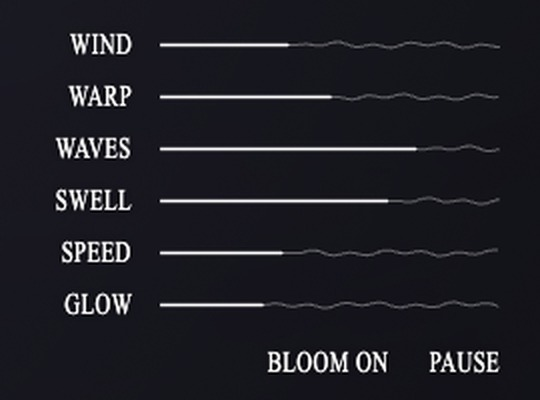
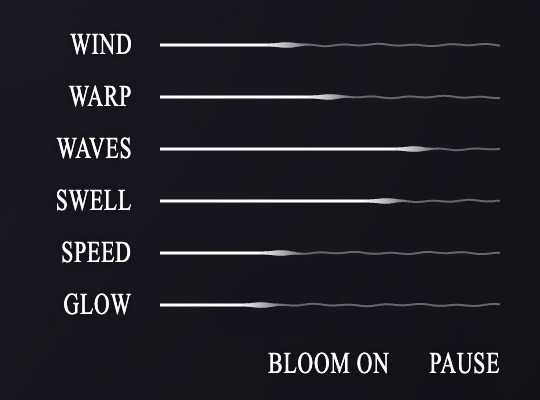
Softer line controls: gradient blend, slight bulge, gentler wobble
Each control line is now one filled ribbon: solid white up to the value, a short
smooth gradient into faint grey, a slight swelling at the value, and a much
smaller wobble past it.

diff --git a/public/games/flymetothemoon/index.html b/public/games/flymetothemoon/index.html
@@ -699,7 +699,8 @@
     requestAnimationFrame(frame);
   }
   // ---------------------------------------------------------------------------------------
-  // Line controls: a solid white line up to the value; past it the line is faint and jiggles.
+  // Line controls: a solid white line up to the value, swelling slightly there and blending
+  // into a faint line that barely wobbles.
   // The real range inputs sit invisibly on top, so dragging, keyboard and screen readers all work.
   // ---------------------------------------------------------------------------------------
   const lineSliders = [...document.querySelectorAll('.line')].map((el, i) => ({
@@ -714,17 +715,27 @@
       g.setTransform(dpr, 0, 0, dpr, 0, 0); g.clearRect(0, 0, w, h);
       const inp = sl.input, min = +inp.min, max = +inp.max;
       const x = (inp.value - min) / (max - min) * w, y = Math.round(h/2) + 0.5;
-      g.lineCap = 'round';
-      g.strokeStyle = 'rgba(255,255,255,0.35)'; g.lineWidth = 1;
-      g.beginPath(); g.moveTo(x, y);
-      for (let px = x + 2; px <= w; px += 2) {
-        const ease = Math.min(1, (px - x)/14);
-        const j = Math.sin(px*0.35 + time*7 + sl.seed)*0.9 + Math.sin(px*0.13 - time*4.3 + sl.seed*2.0)*0.7;
-        g.lineTo(px, y + j*ease);
+      // One filled ribbon per line, so nothing overlaps: its width swells slightly at the value,
+      // its centre wobbles very gently past it, and a single gradient takes it from solid white
+      // into faint grey over a short stretch around the value.
+      const top = [], bot = [];
+      for (let px = 0; px <= w + 0.01; px += 1) {
+        const d = px - x;
+        const t = Math.min(1, Math.max(0, (d + 12) / 24)), s = t*t*(3 - 2*t);
+        const half = (1.5 - 0.5*s + 1.6*Math.exp(-(d*d)/30)) / 2;      // swelling at the value
+        const ease = Math.min(1, Math.max(0, d)/16);
+        const cy = y + (Math.sin(px*0.35 + time*7 + sl.seed)*0.35 + Math.sin(px*0.13 - time*4.3 + sl.seed*2.0)*0.25) * ease;
+        top.push(px, cy - half); bot.push(px, cy + half);
       }
-      g.stroke();
-      g.strokeStyle = '#ffffff'; g.lineWidth = 1.5;
-      g.beginPath(); g.moveTo(0.75, y); g.lineTo(Math.max(x, 0.75), y); g.stroke();
+      const gr = g.createLinearGradient(0, 0, w, 0);
+      const a = Math.min(1, Math.max(0, (x - 12)/w)), b = Math.min(1, Math.max(a, (x + 12)/w));
+      gr.addColorStop(0, '#ffffff'); gr.addColorStop(a, '#ffffff');
+      gr.addColorStop(b, 'rgba(255,255,255,0.35)'); gr.addColorStop(1, 'rgba(255,255,255,0.35)');
+      g.fillStyle = gr;
+      g.beginPath(); g.moveTo(top[0], top[1]);
+      for (let i = 2; i < top.length; i += 2) g.lineTo(top[i], top[i+1]);
+      for (let i = bot.length - 2; i >= 0; i -= 2) g.lineTo(bot[i], bot[i+1]);
+      g.closePath(); g.fill();
     }
   }
 

diff --git a/README.md b/README.md
@@ -56,7 +56,7 @@ Drag the moon to spin it. Let go mid-drag to throw it; press on it while it's tu
 
 ## Controls
 
-The controls sit in the lower right as plain white lines: solid up to the current value, faint and jiggling past it. Drag along a line, or focus it and use the arrow keys.
+The controls sit in the lower right as plain white lines: solid up to the current value, swelling slightly there and blending into a faint line that barely wobbles. Drag along a line, or focus it and use the arrow keys.
 
 ![The line controls](docs/screenshots/11-controls.jpg)
 
